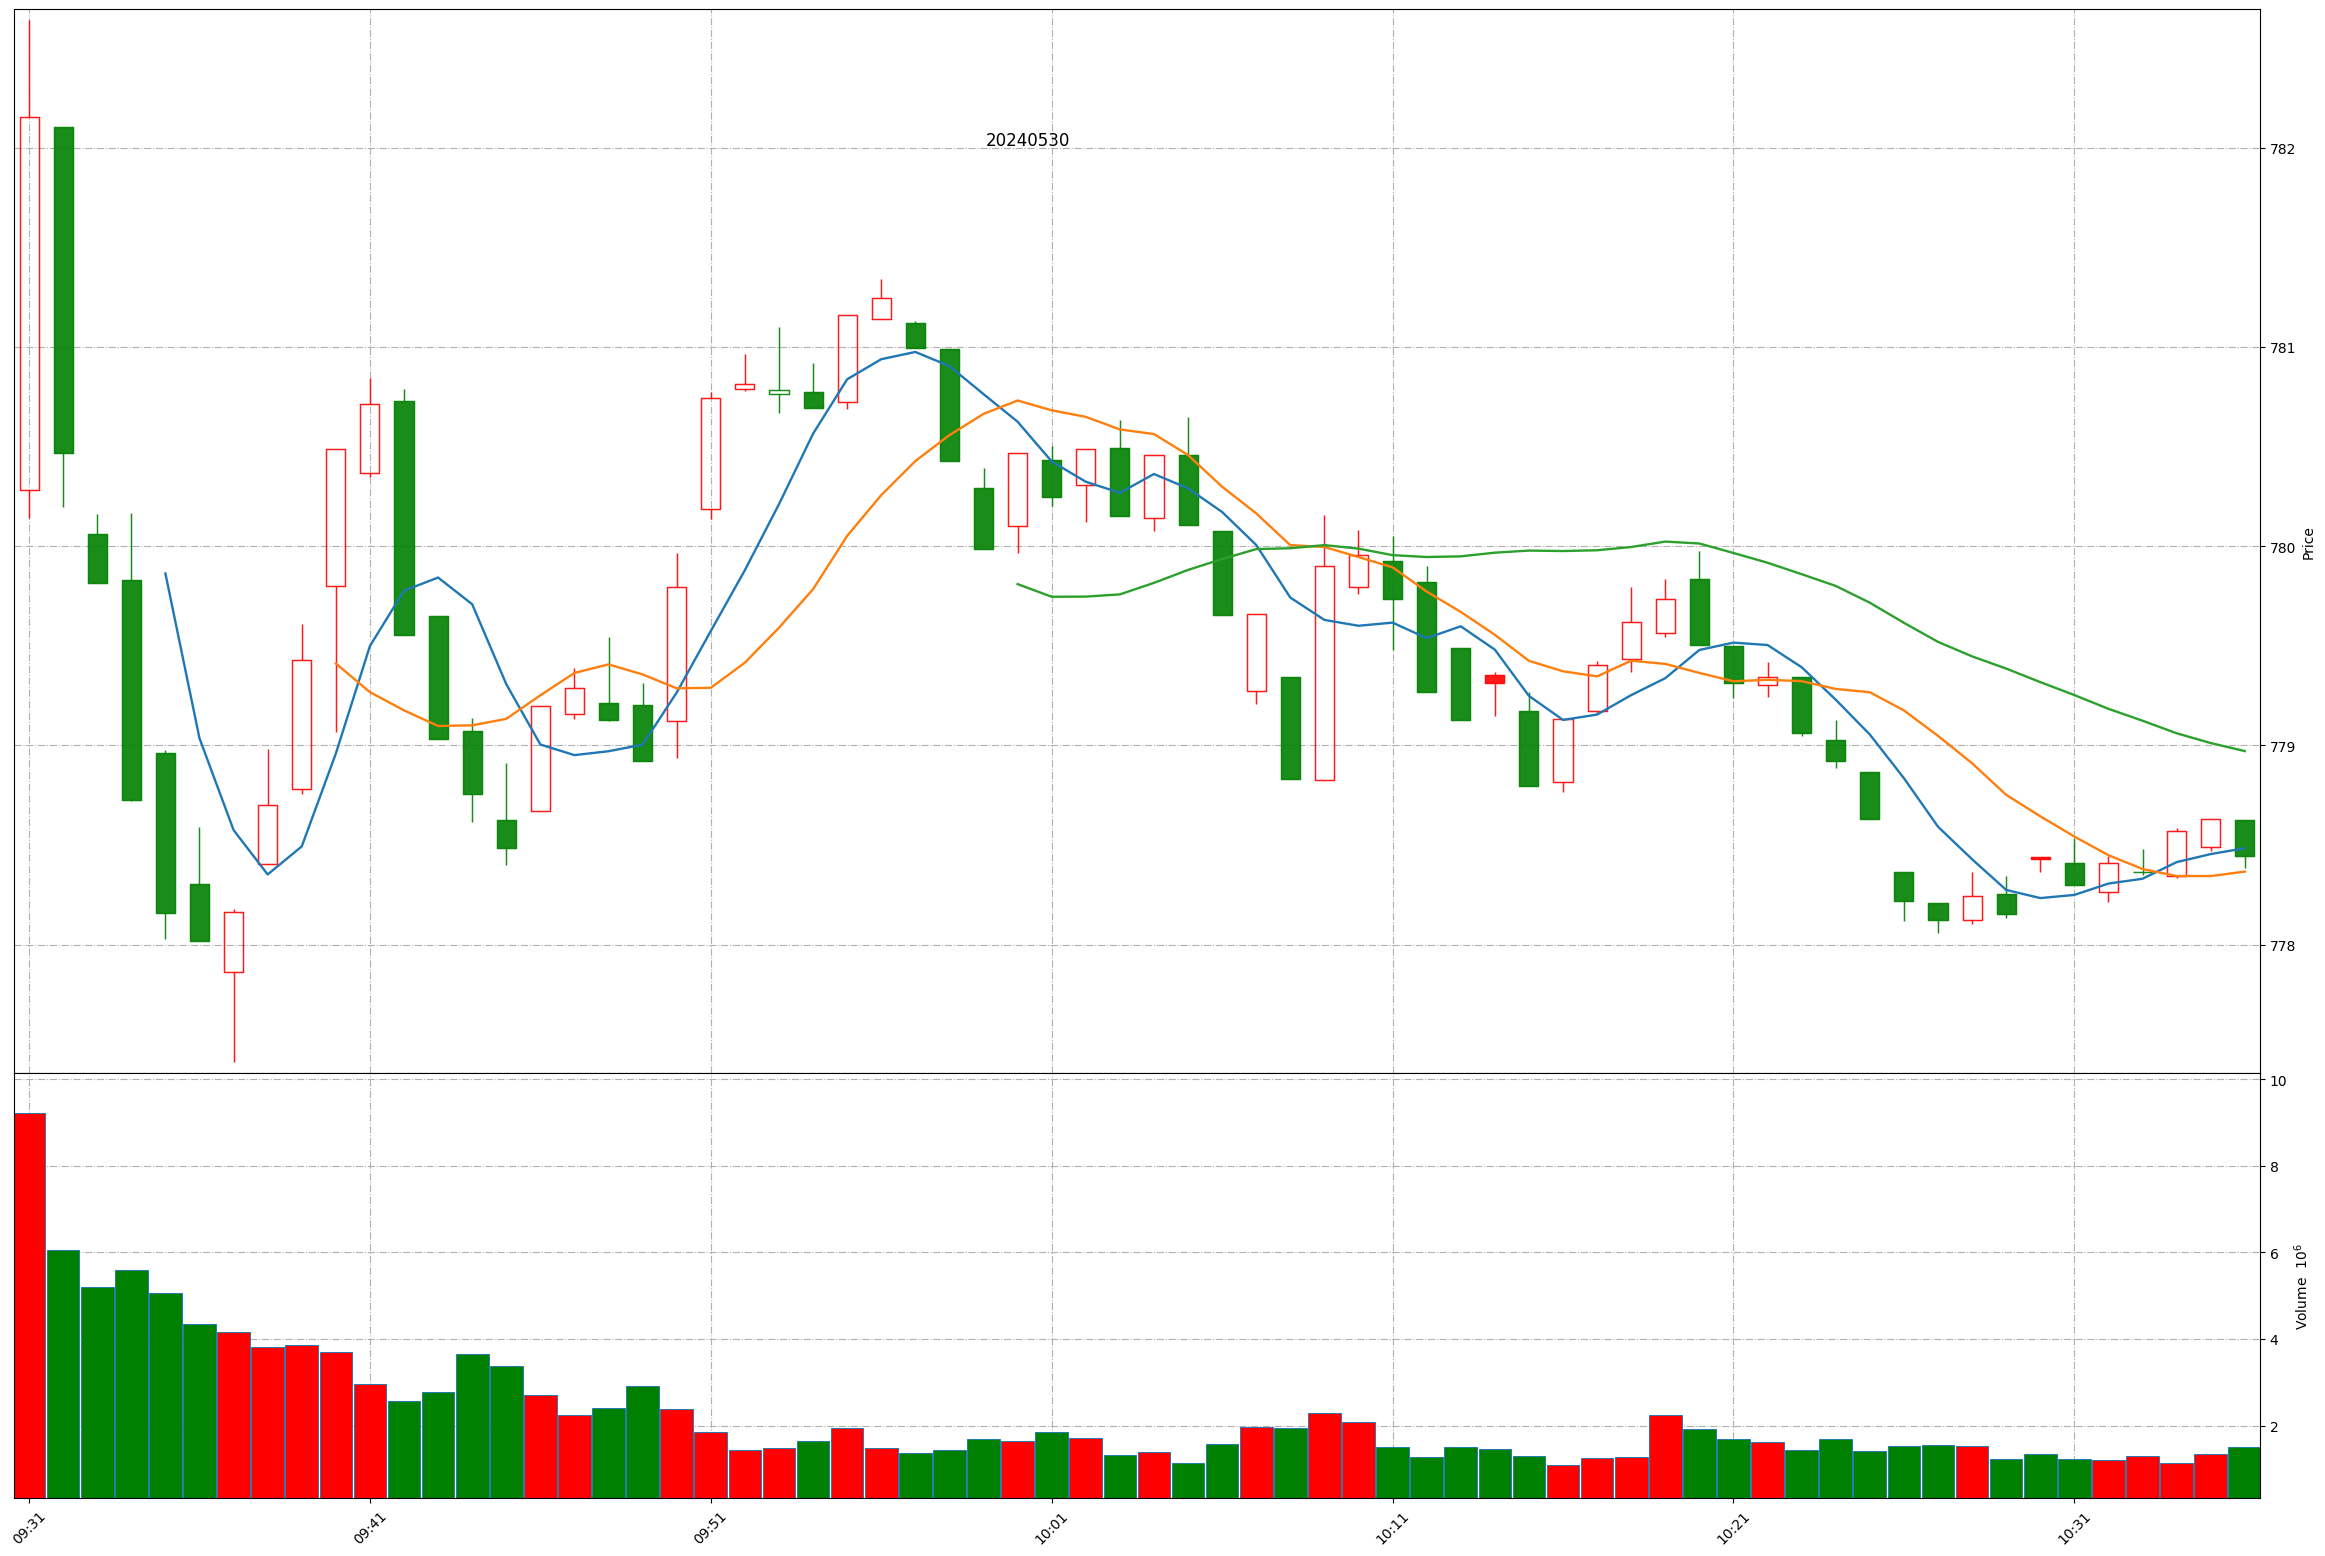
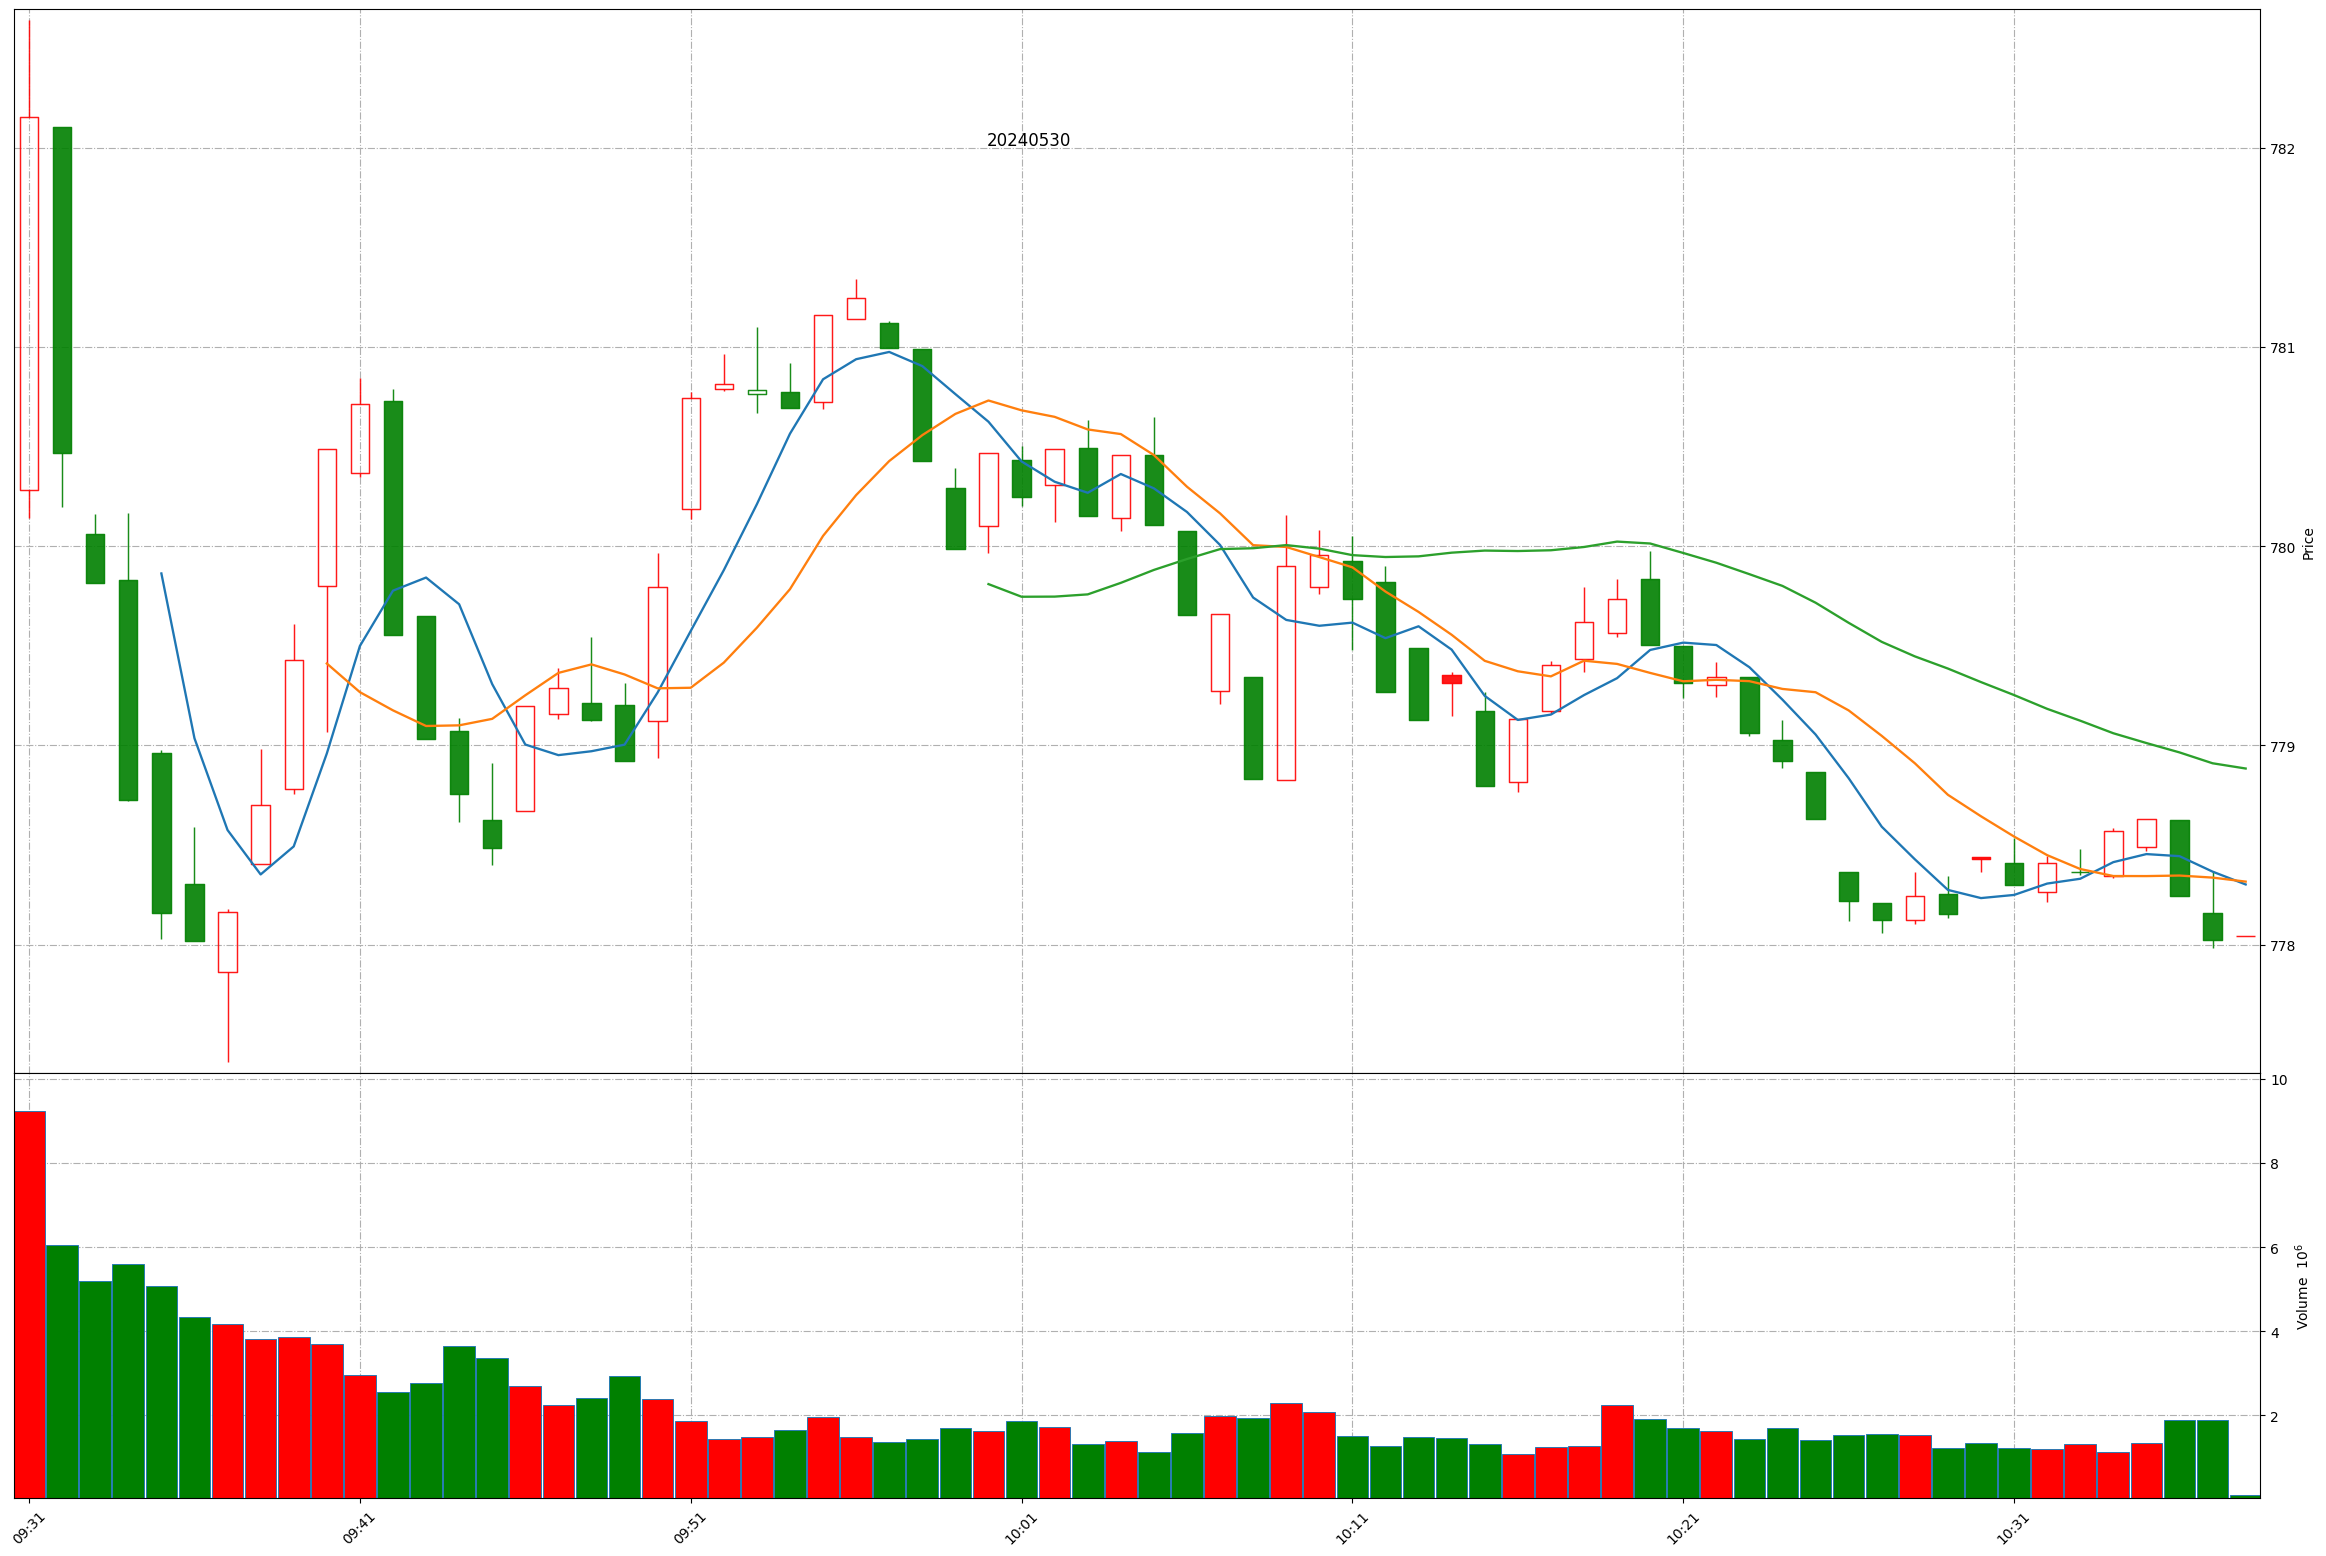
Github action update at 2024-05-30 10:37:23.

diff --git a/README.md b/README.md
@@ -1,11 +1,11 @@
 
 # Daily-A-share-market-quotes 每日 A 股指数（5min 更新）- 20240530
 
-### 上证指数 20240530 10:36
+### 上证指数 20240530 10:37
 ![](./fig/2024/5/20240530-sh000001.png)
 
-### 深证成指 20240530 10:36
+### 深证成指 20240530 10:37
 ![](./fig/2024/5/20240530-sz399001.png)
 
-### 北证50 20240530 10:36
+### 北证50 20240530 10:37
 ![](./fig/2024/5/20240530-bj899050.png)
